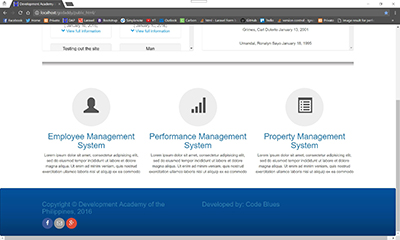
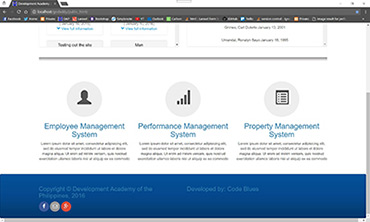
added tools and admin panel info

diff --git a/css/styles.css b/css/styles.css
@@ -346,7 +346,7 @@
 	background-image: url(../works/dap-images/homepage.jpg);
 	background-position: 0px -75px;
 	background-repeat: no-repeat;
-	width: 1200px;
+	width: 1162px;
 	height: 400px;
 }
 
@@ -355,6 +355,15 @@
 	font-family: 'Merriweather', serif;
 	color:#3192d3;
 }
+
+.system-paragraph-title{
+	font-size: 28px;
+	font-weight: bold;
+	font-family: 'Lato', sans-serif;
+	color:#3192d3;
+}
+
+
 
 /*
 .circle-profile:hover{

diff --git a/works/dap.php b/works/dap.php
@@ -40,9 +40,11 @@
 					</div>
 				</div>
 				<div class="media-object-section">
-					<p class="system-paragraph">We developed this system with the use of the PHP Programming Language and MySql as our main Sql Server. We also used Laravel as our main PHP framework, along with Bootstrap as our CSS framework. </p>
+					<h4 class="system-paragraph-title">Tools and System Intro</h4>
+					<p class="system-paragraph">We developed this system with the use of the PHP Programming Language and MySql as our main Sql Server. We also used Laravel as our main PHP framework, along with Bootstrap as our CSS framework. HTML and Jquery is also included </p>
 					<p class="system-paragraph">
 						As you see here on the left is our login page. 
+						The three below is the quick access section which gives faster access to the users, the user menus and the footer along with the social media links.
 					</p>
 				</div>
 			</div>
@@ -70,7 +72,30 @@
 			</div>
 		</div>
 	</div>
+	<div class="row">
+		<div class="columns">
+			<div class="media-object">
+				<div class="media-object-section main-section">
+					<h4 class="system-paragraph-title">Admin Panel</h4>
+					<p class="system-paragraph">
+						Over here is the admin panel. Only Users with the role of any admin type has access here. If you are a Super Administrator, you have access to all of these panels. 
+					</p>
+					<ul>
+						<li class="system-paragraph"><u>Employee Admin</u> - can register an employee, search for them, edit/delete their information, add leave credits, and post announcements.</li>
+						<li class="system-paragraph"><u>Performance Admin</u> - has access and receives all of the performance evaluations of his subordinates under his department.</li>
+						<li class="system-paragraph"><u>Property Admin</u> - can add/view/edit/delete a property, assign accountability, approve/reject property transfer requests and update the property's repair and maintenance info.</li>
+					</ul>
+				</div>
+				<div class="media-object-section align-self-bottom">
+					<div class="thumbnail">
+						<img src="dap-images/admin-panel.jpg">
+					</div>
+				</div>
+			</div>
+		</div>
+	</div>
 </div>
 
 <?php include('../foot.php') ?>
 
+			
